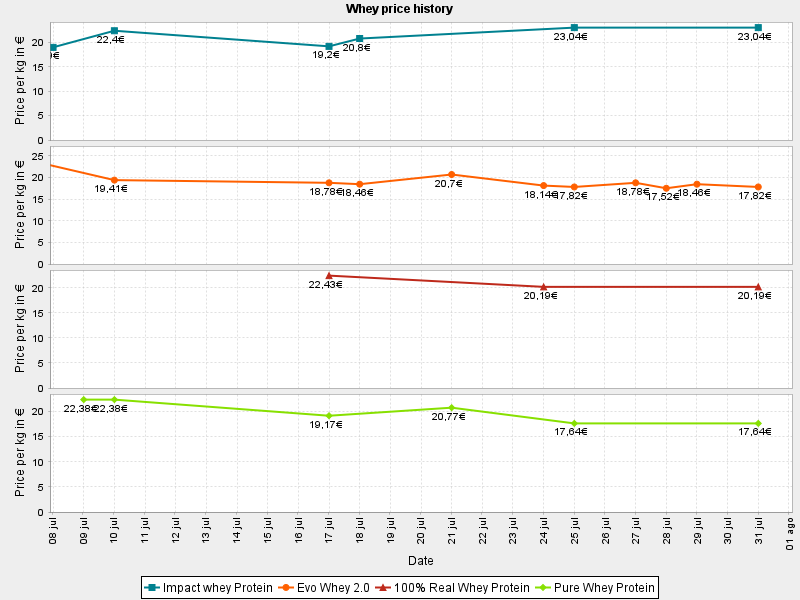
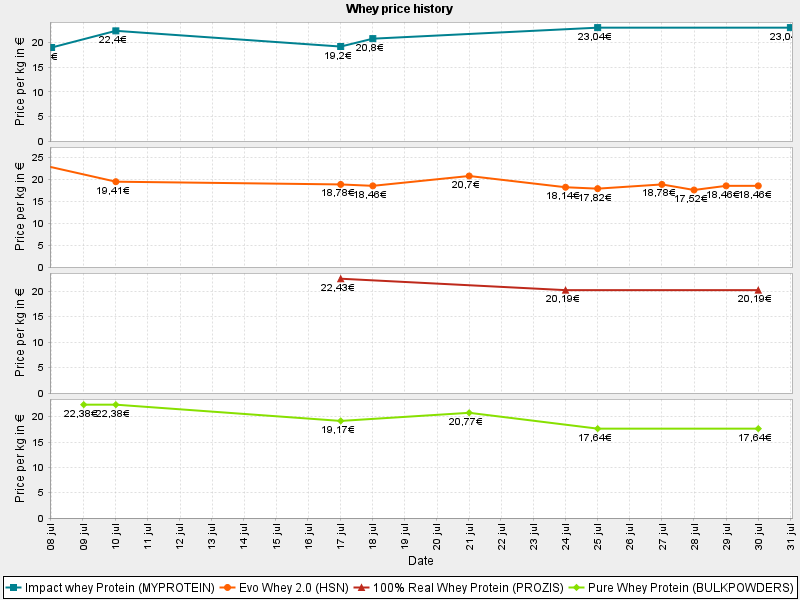
new scraper for hsn

diff --git a/whey-pricing/hsn.js b/whey-pricing/hsn.js
@@ -1,0 +1,51 @@
+const playwright = require('playwright');
+const fs = require('fs');
+
+const products = [
+	'https://www.hsnstore.com/marcas/sport-series/evobeef-hidrolizado-de-carne-2-0-leucina-extra',
+	'https://www.hsnstore.com/marcas/essential-series/proteina-de-guisante-aislada-2-0',
+	'https://www.hsnstore.com/marcas/raw-series/native-whey-concentrate',
+	'https://www.hsnstore.com/marcas/essential-series/proteina-de-semilla-de-calabaza',
+	'https://www.hsnstore.com/marcas/essential-series/proteina-de-arroz-integral-concentrada',
+	'https://www.hsnstore.com/marcas/food-series/harina-de-arroz-hidrolizada',
+	'https://www.hsnstore.com/marcas/raw-series/creatina-excell-100-creapure-en-polvo'
+];
+const prices = {};
+
+let browser;
+const delay = ms => new Promise(resolve => setTimeout(resolve, ms));
+
+async function scrapUrl(productUrl) {
+  try {
+	  console.log("launching browser");
+	  browser = await playwright.chromium.launch({
+				headless: false,
+	  });
+	  const page = await browser.newPage();
+	  await page.goto(productUrl);
+	  await page.waitForTimeout(4000);	
+	  await page.locator('.peso-tamaño-product>label>>nth=-1').click()
+	  // await page.screenshot({ path:`/home/davidpoza/prozis-scraper/screenshot-${productUrl}.png` });
+	  prices[productUrl] = await page.$$eval('.final-price', (element) => {
+		return element[0].innerText;
+	  });
+	  console.log(prices[productUrl]);
+	  await browser.close();	      
+  } catch (err) {
+	console.log(err)
+    await browser.close();
+  }
+}
+
+async function main() {
+	for (const productUrl of products) {
+		await scrapUrl(productUrl);
+	};
+	let data = JSON.stringify({
+	    prices,
+		date: new Date().getTime()
+	  });
+    fs.writeFileSync(`/home/davidpoza/docker/filesnginx/www/whey-scraper/hsn.json`, data);
+}
+
+main();

diff --git a/whey-pricing/src/com/davidpoza/HsnPrice.java b/whey-pricing/src/com/davidpoza/HsnPrice.java
@@ -3,9 +3,13 @@ package com.davidpoza;
 import java.io.IOException;
 import java.sql.Connection;
 import java.time.LocalDateTime;
-import org.jsoup.Jsoup;
-import org.jsoup.nodes.Document;
-import org.jsoup.select.Elements;
+
+import org.apache.http.client.methods.CloseableHttpResponse;
+import org.apache.http.client.methods.HttpGet;
+import org.apache.http.impl.client.CloseableHttpClient;
+import org.apache.http.impl.client.HttpClients;
+import org.apache.http.util.EntityUtils;
+import org.json.JSONObject;
 
 public class HsnPrice extends Price {
   
@@ -24,21 +28,23 @@ public class HsnPrice extends Price {
   @Override
   public void scrapPrice() throws Exception, IOException {   
     super.scrapPrice();
-    // scraped prices in Hsn always refer to 500g. we calculate the final price applying per-amount discount
-    Double refKg = 0.5;
-    Document doc = null;
-    doc = Jsoup.connect(this.url).get();
-    Elements price = doc.select("div.final-price");
-    if (price.isEmpty()) throw new Exception("Price not found");
-    String s = price.first().text();
-//    this.checkDiscount(doc);
-    if (this.getProduct().getKg() == 2d) this.setDiscount(20d);
-    else if(this.getProduct().getKg() == 4d) this.setDiscount(25d);
-    Double p = this.parsePrice(s);
-    if (this.getDiscount() > 0) {
-      p *= 1 - this.getDiscount()/100;
+    CloseableHttpClient httpClient = HttpClients.createDefault();
+    HttpGet request = new HttpGet("https://files.davidinformatico.com/whey-scraper/hsn.json");
+    CloseableHttpResponse response = httpClient.execute(request);
+    int statusCode = response.getStatusLine().getStatusCode();
+    if (statusCode != 200) {
+      throw new Exception("Price not found");
     }
-    this.setAmount(p / refKg);
+    String jsonString = EntityUtils.toString(response.getEntity());
+    JSONObject obj = new JSONObject(jsonString);
+    JSONObject prices = obj.getJSONObject("prices");
+    try {
+      String price = prices.getString(this.getUrl());
+      Double p = this.parsePrice(price);
+      this.setAmount(p / this.getProduct().getKg());
+    } catch (Exception ex) {
+      throw new Exception("Price not found");
+    }
     this.setDate(LocalDateTime.now());
     System.out.println("New price found for HSN! " + this.getAmount());
   };

diff --git a/whey-pricing/src/com/davidpoza/PriceChart.java b/whey-pricing/src/com/davidpoza/PriceChart.java
@@ -52,10 +52,17 @@ public class PriceChart {
   private ArrayList<Integer> getProductIdsByCommand(String command) {
     ArrayList<Integer> ret = new ArrayList<>();
     switch(command) {
-    case "pea":
-      break;
     case "whey":
-      Collections.addAll(ret, new Integer[] {1, 2, 3, 4,});
+      Collections.addAll(ret, new Integer[] {1, 2, 3, 4});
+      break;
+    case "meat":
+      Collections.addAll(ret, new Integer[] {7,8,9});
+      break;
+    case "rice":
+      Collections.addAll(ret, new Integer[] {5,6,10});
+      break;
+    case "pea":
+      Collections.addAll(ret, new Integer[] {11,12,13});
       break;
     default:
       break;
@@ -99,7 +106,7 @@ public class PriceChart {
       for (int i = 0; i < products.size(); i++) {
         Product p = products.get(i);
         TimeSeriesCollection dataset = new TimeSeriesCollection();  
-        TimeSeries series = new TimeSeries(p.getName());    
+        TimeSeries series = new TimeSeries(p.getName() + " (" + p.getBrand() +  ")");    
         MyLogger.log(PriceChart.class, LogTypes.DEBUG, "creating timeseries for " + p.getName());
         for (int j = 0; j < p.getPrices().size(); j++) {
           Price price = p.getPrices().get(j);

diff --git a/whey-pricing/src/com/davidpoza/ScraperRunnable.java b/whey-pricing/src/com/davidpoza/ScraperRunnable.java
@@ -13,10 +13,10 @@ public class ScraperRunnable implements Runnable {
   
   @Override
   public void run() {
-    PriceChart chart = new PriceChart(this.con, null, null); 
     try {      
-      String[] commands = {"whey", "pea", "meat"};
+      String[] commands = {"whey", "pea", "meat", "rice"};
       for (int i = 0; i<commands.length; i++) {
+        PriceChart chart = new PriceChart(this.con, null, null); 
         MyLogger.log(ScraperRunnable.class, LogTypes.DEBUG, "refreshing data for " + commands[i] + "chart");
         chart.getAllProducts(commands[i]);
         chart.buildDataSet();
